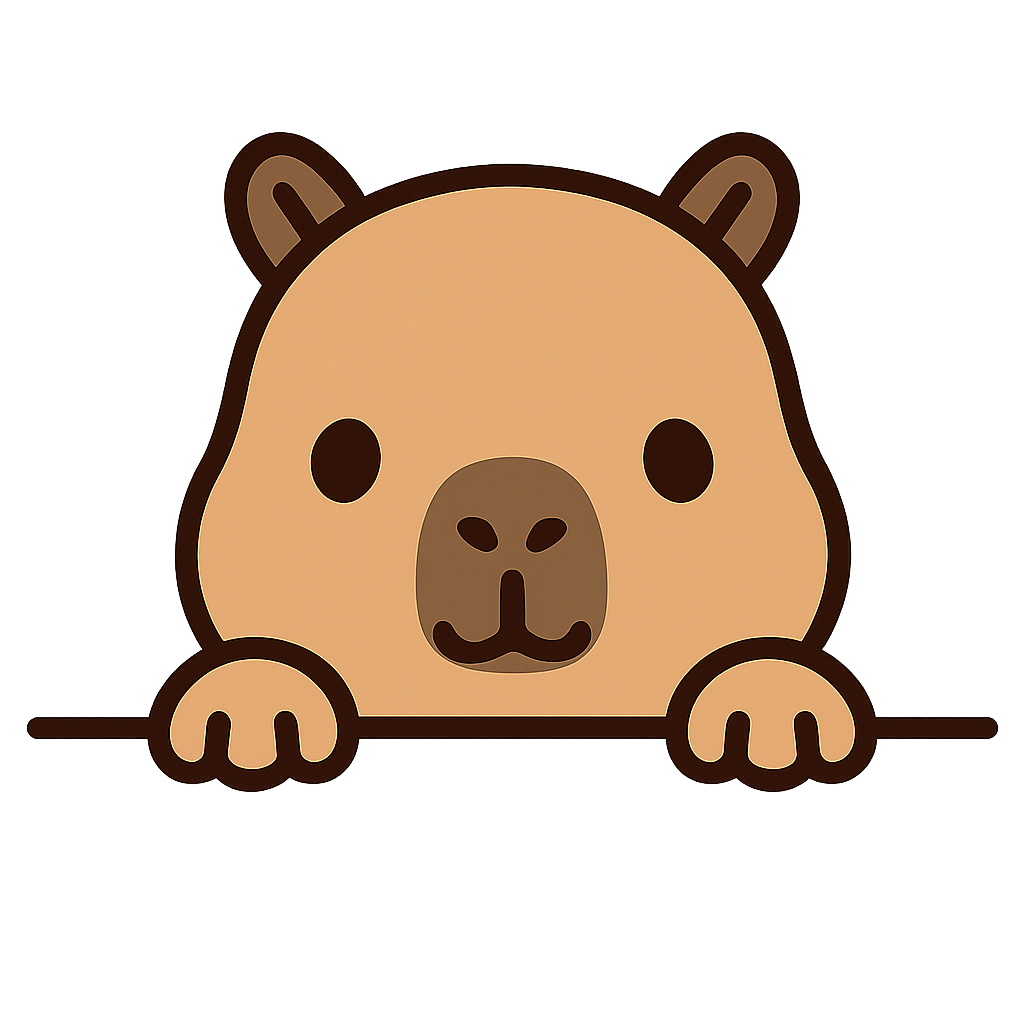
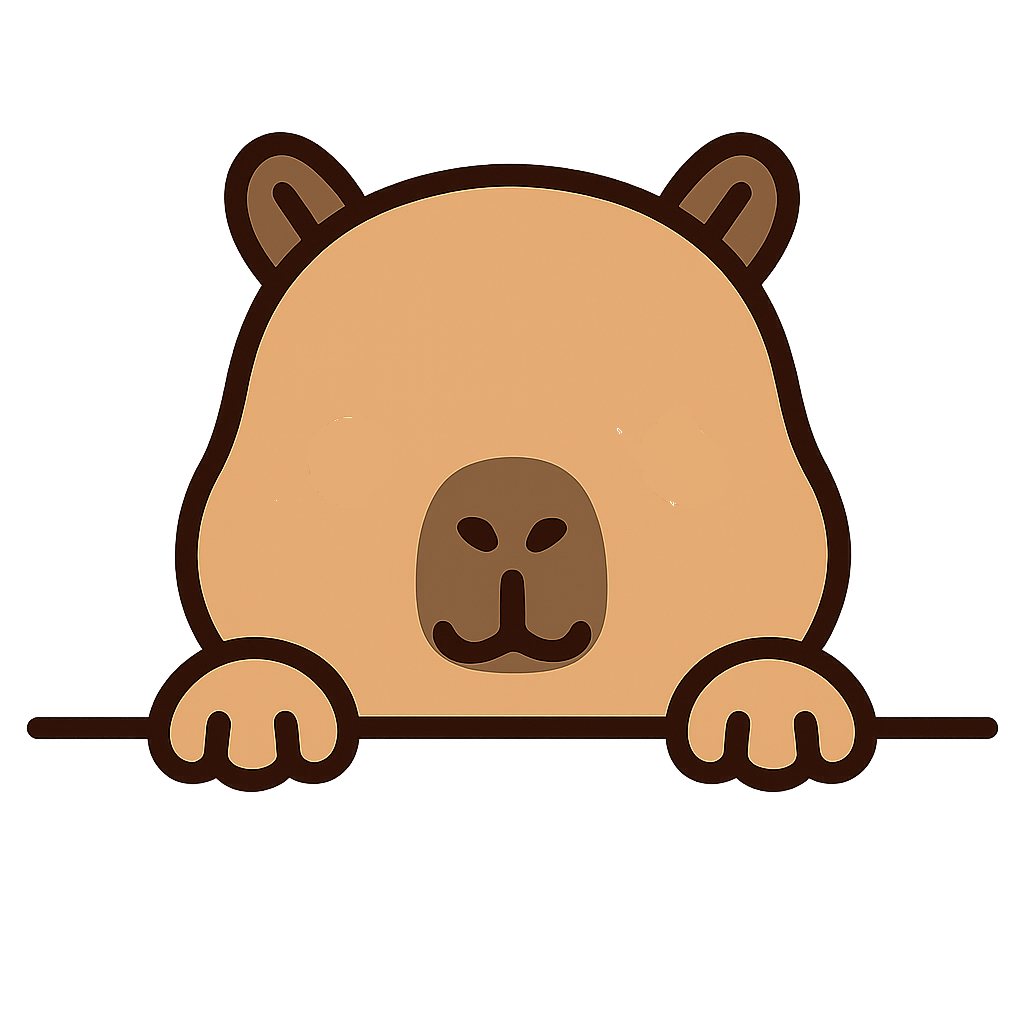
fix: improved goBack function cleanup

Changed region(s): [[0.625, 0.4062, 0.7188, 0.5], [0.2812, 0.4062, 0.375, 0.5]]

diff --git a/style.css b/style.css
@@ -159,14 +159,76 @@ body {
   font-size: 14px;
   text-decoration: none;
 }
+.capybara-wrapper {
+  position: relative;
+  width: 60px;
+  height: auto;
+  margin: 0 auto;
+}
+
 .capybara-img {
   width: 60px;
+  position: relative;
+  z-index: 1;
+  top:-58px;
+}
+
+.capybara-tail {
+  width: 27px;
   position: absolute;
-  top: -30px;
+  top: -50px;         /* adjust this to fit nicely above the head */
   left: 50%;
   transform: translateX(-50%);
-  z-index: 2;
+  transform-origin:bottom center;
+  z-index: 0;
+  animation: wagTail 2s infinite ease-in-out;
 }
+
+@keyframes wagTail {
+  0%   { transform: translateX(-50%) rotate(0deg); }
+  25%  { transform: translateX(-50%) rotate(8deg); }
+  50%  { transform: translateX(-50%) rotate(0deg); }
+  75%  { transform: translateX(-50%) rotate(-8deg); }
+  100% { transform: translateX(-50%) rotate(0deg); }
+}
+.capybara-wrapper {
+  position: relative;
+  width: 60px; /* match capybara image */
+  height: auto;
+  margin: 0 auto;
+}
+
+.capy-eye {
+  position: absolute;
+  width: 6px;
+  height: 6px;
+  background-color: black;
+  border-radius: 50%;
+  animation: blink 3s infinite;
+  z-index: 3;
+}
+
+/* Adjust these to match where the eyes are on your image */
+.left-eye {
+  top: 12px;
+  left: 14px;
+}
+
+.right-eye {
+  top: 12px;
+  right: 14px;
+}
+
+/* Blinking animation */
+@keyframes blink {
+  0%, 90%, 100% {
+    transform: scaleY(1);
+  }
+  95% {
+    transform: scaleY(0.1);
+  }
+}
+
 
 
 

diff --git a/index.html b/index.html
@@ -27,10 +27,15 @@
     <!-- Letter text (hidden until clicked) -->
     <div id="letterBox1" class="letter-box hidden">
       <div class="letter-text">
-        <img src="cutecapy.png" alt="Capybara peeking" class="capybara-img">
+        <div class="capybara-wrapper">
+          <img src="capybaracutetail.png" alt="Tail" class="capybara-tail">
+          <img src="cutecapy.png" alt="Capybara peeking" class="capybara-img">
+          <div class="capy-eye left-eye"></div>
+          <div class="capy-eye right-eye"></div>
+        </div>
         <p>Happy Birthday!!</p>
         <p>This letter is to tell you how much you mean to me </p>
-        <p>– Jay</p>
+        <p>– Jay The Capybara</p>
       </div>
     </div>
     <div id="letterBox2" class="letter-box hidden">
